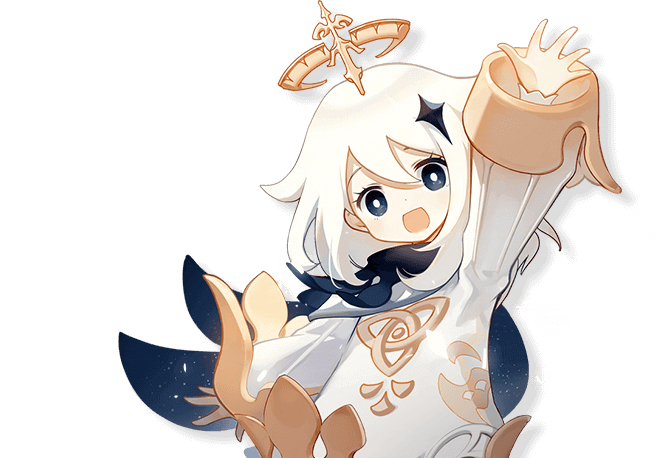
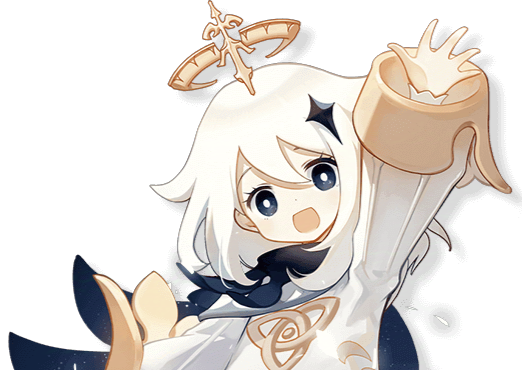
Upload Files and Code
Assembling of the page and images.

diff --git a/Site/style.css b/Site/style.css
@@ -7,18 +7,157 @@ body{
     background-color: #fafafa;
     display: flex;
 }
+#MainViajante{
+    display: flex;
+    width: 100vw;
+    height: 100vh;
+    background-image: url(/Personagens/Lumine.png);
+    background-position: 600px;
+    background-repeat: no-repeat;
+    position: absolute;
+    opacity: 30%;
+}
+#MainViajante2{
+    display: flex;
+    width: 100vw;
+    height: 100vh;
+    background-image: url(/Personagens/Aether.png);
+    background-position: -600px;
+    background-repeat:no-repeat;
+    position: absolute;
+    opacity: 30%;
+}
+#CardDivViajante{
+    display: flex;
+    position:relative;
+    background-image: url('/Cartao/CartaoViajante.png');
+    background-size: cover;
+    background-position: center;
+    width: 90vw;
+    left: 20px;
+    margin: 60px;
+    height: 400px;
+    border-radius: 30px;
+    box-shadow: 0px 0px 50px rgba(0, 0, 0, 0.384);
+}
 .CardSection{
-    background-color: blanchedalmond;
-    height: 450px;
+    height: 500px;
     width: 100vw;
 }
-.CardArticle{
-    background-color: rgb(177, 139, 83);
-    top: 30px;
-    display: flex;
-    height: 400px;
+.InfoNome{
+    position: absolute;
+    width: 600px;
+    margin: 30px;
 }
-#ImgPersonagemLumine{
+.NomeDoPersonagem{
+    left: 20px;
+    top:70px;
     display: flex;
     position: absolute;
+    font-size: 60px;
+    color: #ffffff;
+}
+.InfoPersonagem{
+    left: 20px;
+    top:160px;
+    position: absolute;
+    overflow: auto;
+    font-size: 25px;
+    color: #ffffff;
+    font-family:serif;
+}
+.Imgs{
+    display: flex;
+    position: absolute;
+}
+#ImgPersonagemPaimon{
+    z-index: 3;
+    width: 500px;
+    display: flex;
+    position:absolute;
+    top: 46px;
+    left: 705px;
+}
+#ImgPersonagemLumine{
+    width: 500px;
+    display: flex;
+    position:absolute;
+    top: -36px;
+    left: 925px;
+}
+#ImgPersonagemAether{
+    width: 560px;
+    display: flex;
+    position:absolute;
+    top: -71px;
+    left: 550px;
+}
+.InfoSection{
+    top: 490px;
+    height: 410px;
+    width: 100vw;
+    position: absolute;
+}
+.Arte1{
+    background-image: linear-gradient(rgba(255, 0, 0, 0.4)), (rgba(255, 36, 36, 0.4));
+    padding: 0px;
+    position: absolute;
+    display: flex;
+    width: 220px;
+    top: 60px;
+    left: 80px;
+    border-radius: 40px;
+}
+.Arte2{
+    padding: 0px;
+    position: absolute;
+    display: flex;
+    width: 220px;
+    top: 60px;
+    left: 330px;
+    border-radius: 40px;
+}
+.tituloArte{
+    left: 90px;
+    top:0px;
+    display: flex;
+    position: absolute;
+    font-size: 40px;
+    color: #242424;
+}
+.titulo{
+    left: 0px;
+    top:0px;
+    display: flex;
+    position: absolute;
+    font-size: 40px;
+    color: #242424;
+}
+.Conexoes{
+    display: flex;
+    position: absolute;
+    width: 260px;
+    height: 400px;
+    left: 600px;
+}
+#BarraConexao1Viajante{
+    background-color: rgb(30, 49, 99);
+}
+.BarraConexao{
+    margin-top: 60px;
+    width: 250px;
+    height: 100px;
+    border-radius: 20px;
+}
+.ImgConexao{
+    margin: 10px;
+    width: 70px;
+}
+.NomeConexao{
+    left: 90px;
+    top:90px;
+    display: flex;
+    position: absolute;
+    font-size: 30px;
+    color: #ffffff;
 }

diff --git a/Site/index.html b/Site/index.html
@@ -1,23 +1,45 @@
 <!DOCTYPE html>
 <html>
 <head>
-    <title>Document</title>
+    <title>Genshin Card</title>
     <link rel="stylesheet" href="/style.css">
 </head>
 <body>
-    <header></header>
-    <main>
+    <main class="Main">
+        <div id="MainViajante"></div>
+        <div id="MainViajante2"></div>
         <section class="CardSection">
-            <article class="CardArticle">
-                <h1 class="NomeDoPersonagem">Viajantes</h1>
-                <p class="InfoPersonagem"></p>
-                <img id="ImgPersonagemPaimon" src="/Personagens/Paimon.png" alt="PaimonImage">
-                <img id="ImgPersonagemLumine" src="/Personagens/Lumine.png" alt="LumineImage">
-                <img id="ImgPersonagemAether" src="/Personagens/Aether.png" alt="AetherImage">
-                
-            </article>
+            <div id="CardDivViajante">
+                <div class="InfoNome">
+                    <h1 class="NomeDoPersonagem">Viajantes e Paimon</h1>
+                <p class="InfoPersonagem">O Viajante é o protagonista jogável de Genshin Impact. No início do jogo existem 2 gêmeos, uma garota e um garoto, que viajam pelo universo até que são atacados por uma Deusa Desconhecido.</p>
+            </div>
+                <div class="Imgs">
+                    <img id="ImgPersonagemPaimon" src="/Personagens/Paimon.png" alt="PaimonImage">
+                    <img id="ImgPersonagemLumine" src="/Personagens/Lumine.png" alt="LumineImage">
+                    <img id="ImgPersonagemAether" src="/Personagens/Aether.png" alt="AetherImage">
+                </div>
+
+            </div>
         </section>
-</main>
-    
+        <section class="InfoSection">
+
+            <div class="EspacoArtes">
+                <h1 class="tituloArte">Artes</h1>
+                <img class="Arte1" src="/Artes/AetherArt.png" alt="AetherArte">
+                <img class="Arte2" src="/Artes/LumineArt.jpg" alt="LumineArte">
+            </div>
+            <div class="Conexoes">
+                <h1 class="titulo">Conexões</h1>
+                <figure class="BarraConexao" id="BarraConexao1Viajante">
+                    
+                    <img class="ImgConexao" src="/Icones/Venti_Icon.png" alt="VentiPortrait">
+                    <p class="NomeConexao">Venti
+                    </p>
+                </figure>
+                
+            </div>
+        </section>
+    </main>
 </body>
 </html>
